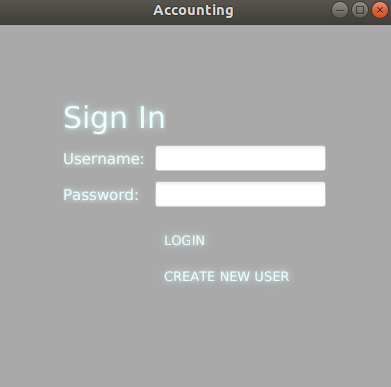
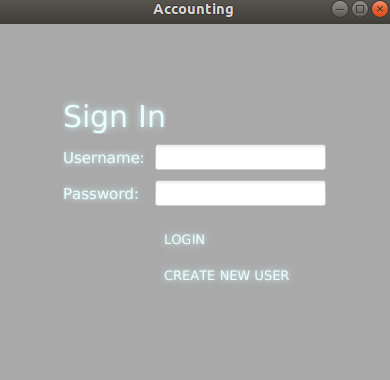
rajaus ja koko

diff --git a/dokumentaatio/kayttoohje.md b/dokumentaatio/kayttoohje.md
@@ -12,7 +12,7 @@ Ohjelma käynnistetään komennolla
 
 Sovelluksesta aukeaa ensimmäisenä kirjautumisnäkymä:
 
-<img src="https://github.com/prinsessv/ot-harjoitustyo/blob/master/dokumentaatio/kuvat/Kirjautuminen.png" width="500">
+<img src="https://github.com/prinsessv/ot-harjoitustyo/blob/master/dokumentaatio/kuvat/Kirjautuminen.png" width="400">
 
 Kirjautuminen onnistuu syöttämällä luotu käyttäjatunnus ja sen salasana syöttökenttiin ja painamalla login. 
 
